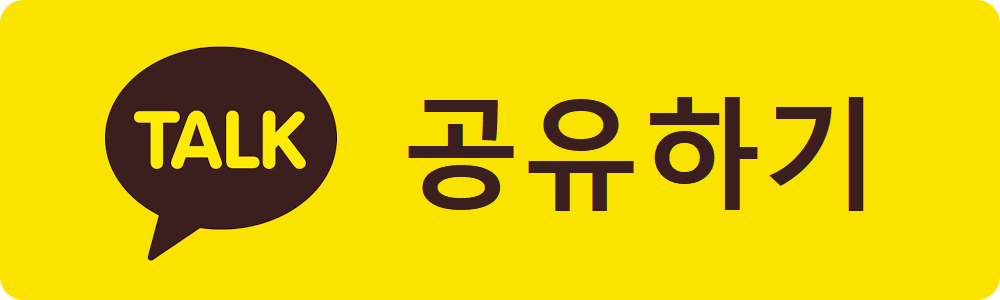
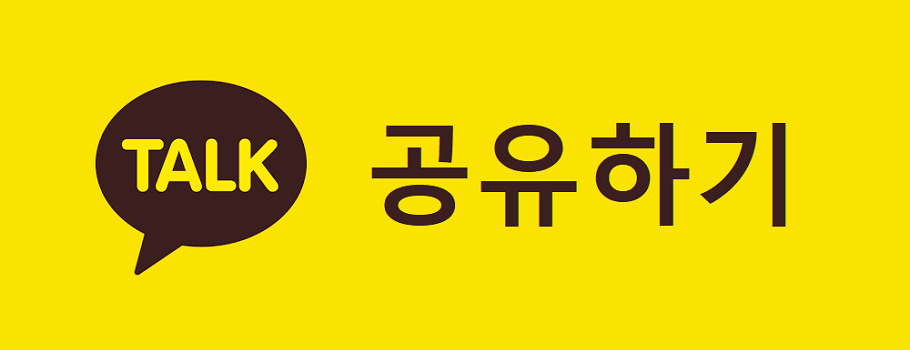
mypet10.8
share button img fixed

diff --git a/resultid=1.html b/resultid=1.html
@@ -196,7 +196,7 @@
                         </div>
                         <div class="sharebtn">
                             <a id="kakao-link-btn">
-                                <img src="img/share.png" width="140px"/>
+                                <img src="img/share.png" width="130px"/>
                             </a>
                         </div>
                     </div>

diff --git a/resultid=2.html b/resultid=2.html
@@ -196,7 +196,7 @@
                         </div>
                         <div class="sharebtn">
                             <a id="kakao-link-btn">
-                                <img src="img/share.png" width="140px"/>
+                                <img src="img/share.png" width="130px"/>
                             </a>
                         </div>
                     </div>

diff --git a/resultid=3.html b/resultid=3.html
@@ -196,7 +196,7 @@
                         </div>
                         <div class="sharebtn">
                             <a id="kakao-link-btn">
-                                <img src="img/share.png" width="140px"/>
+                                <img src="img/share.png" width="130px"/>
                             </a>
                         </div>
                     </div>

diff --git a/resultid=4.html b/resultid=4.html
@@ -196,7 +196,7 @@
                         </div>
                         <div class="sharebtn">
                             <a id="kakao-link-btn">
-                                <img src="img/share.png" width="140px"/>
+                                <img src="img/share.png" width="130px"/>
                             </a>
                         </div>
                     </div>

diff --git a/resultid=5.html b/resultid=5.html
@@ -196,7 +196,7 @@
                         </div>
                         <div class="sharebtn">
                             <a id="kakao-link-btn">
-                                <img src="img/share.png" width="140px"/>
+                                <img src="img/share.png" width="130px"/>
                             </a>
                         </div>
                     </div>

diff --git a/resultid=6.html b/resultid=6.html
@@ -196,7 +196,7 @@
                         </div>
                         <div class="sharebtn">
                             <a id="kakao-link-btn">
-                                <img src="img/share.png" width="140px"/>
+                                <img src="img/share.png" width="130px"/>
                             </a>
                         </div>
                     </div>

diff --git a/resultid=7.html b/resultid=7.html
@@ -196,7 +196,7 @@
                         </div>
                         <div class="sharebtn">
                             <a id="kakao-link-btn">
-                                <img src="img/share.png" width="140px"/>
+                                <img src="img/share.png" width="130px"/>
                             </a>
                         </div>
                     </div>

diff --git a/resultid=8.html b/resultid=8.html
@@ -196,7 +196,7 @@
                         </div>
                         <div class="sharebtn">
                             <a id="kakao-link-btn">
-                                <img src="img/share.png" width="140px"/>
+                                <img src="img/share.png" width="130px"/>
                             </a>
                         </div>
                     </div>

diff --git a/css/my/style.css b/css/my/style.css
@@ -287,6 +287,10 @@ div[id^="desc"] {
     text-align: center;
     margin: 15px 0 30px;
 }
+.sharebtn img {
+    border-radius: 25px;
+    box-shadow: 0 2px 5px rgba(0,0,0,.2);
+}
 
 /* ads */
 .ad-left {
